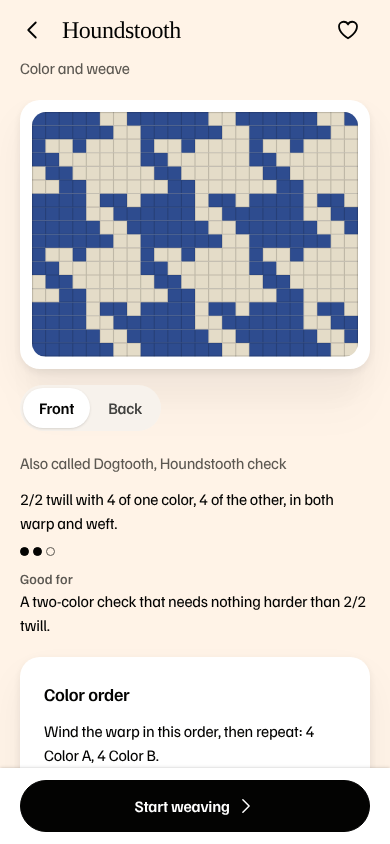
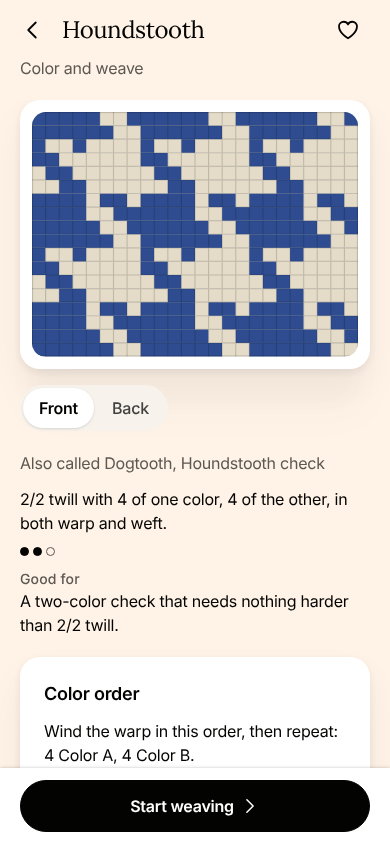
Switch the app to Lora and Inter
Imports only the five weights used, so the build ships 5 font files
instead of every weight. Warp numbers use proportional digits where
cells are tight. Screenshots regenerated.

Claude-Session: https://claude.ai/code/session_01Gtqg4dw1fhTRdDGf4Dddek

diff --git a/src/ui/fonts.ts b/src/ui/fonts.ts
@@ -1,38 +1,31 @@
-import {
-  FamiljenGrotesk_400Regular,
-  FamiljenGrotesk_500Medium,
-  FamiljenGrotesk_600SemiBold,
-  FamiljenGrotesk_700Bold,
-} from '@expo-google-fonts/familjen-grotesk';
+// Per-weight entry points: the package index would pull every weight and italic into the build.
+import { Inter_400Regular } from '@expo-google-fonts/inter/400Regular';
+import { Inter_500Medium } from '@expo-google-fonts/inter/500Medium';
+import { Inter_600SemiBold } from '@expo-google-fonts/inter/600SemiBold';
+import { Inter_700Bold } from '@expo-google-fonts/inter/700Bold';
+import { Lora_400Regular } from '@expo-google-fonts/lora/400Regular';
 import { Platform } from 'react-native';
 
-/*
- * Spec (docs/design.md): Inter 400/500/600/700 for everything, Lora 400 for headings of 24 px and up.
- * The Lora and Inter packages are not installed yet, so the sans faces are still the bundled
- * Familjen Grotesk and the serif is the system serif. Swapping in the packages only touches this file:
- * import Inter_400Regular … Inter_700Bold and Lora_400Regular, point `fontFamilies` at them, set
- * `serifFamily` to 'Lora_400Regular' and add it to `fontMap`.
- */
-
-/** Family names registered with expo-font: one per weight. */
+/** Inter family names registered with expo-font: one per weight. */
 export const fontFamilies = {
-  regular: 'FamiljenGrotesk_400Regular',
-  medium: 'FamiljenGrotesk_500Medium',
-  semibold: 'FamiljenGrotesk_600SemiBold',
-  bold: 'FamiljenGrotesk_700Bold',
+  regular: 'Inter_400Regular',
+  medium: 'Inter_500Medium',
+  semibold: 'Inter_600SemiBold',
+  bold: 'Inter_700Bold',
 } as const;
 
-/** System serif used before (or instead of) the bundled one. */
+/** Lora 400: headings of 24 px and up only. */
+export const serifFamily = 'Lora_400Regular';
+
+/** System serif, used if the bundled fonts fail to load. */
 export const systemSerif: string =
   Platform.select({ ios: 'Georgia', android: 'serif', web: 'Georgia, "Times New Roman", serif' }) ?? 'serif';
 
-/** The serif family once fonts are loaded. Null while no serif is bundled: the system serif is used. */
-export const serifFamily: string | null = null;
-
 /** Map handed to `useFonts`. The TTFs are bundled, so nothing is fetched from a font host. */
 export const fontMap = {
-  [fontFamilies.regular]: FamiljenGrotesk_400Regular,
-  [fontFamilies.medium]: FamiljenGrotesk_500Medium,
-  [fontFamilies.semibold]: FamiljenGrotesk_600SemiBold,
-  [fontFamilies.bold]: FamiljenGrotesk_700Bold,
+  [fontFamilies.regular]: Inter_400Regular,
+  [fontFamilies.medium]: Inter_500Medium,
+  [fontFamilies.semibold]: Inter_600SemiBold,
+  [fontFamilies.bold]: Inter_700Bold,
+  [serifFamily]: Lora_400Regular,
 };

diff --git a/src/weave/strips.tsx b/src/weave/strips.tsx
@@ -234,7 +234,8 @@ export function WarpNumbers({ count, cellMin = 10, cell: fixed, testID }: WarpNu
         <Text
           key={n}
           variant="caption"
-          tabular
+          // Proportional digits are narrower ("11" especially) where two-digit numbers sit side by side.
+          tabular={!tight}
           align="center"
           numberOfLines={1}
           maxFontSizeMultiplier={1.2}

diff --git a/src/ui/theme.ts b/src/ui/theme.ts
@@ -184,7 +184,7 @@ const loadedFaces: Record<FontFace, TextStyle> = {
   medium: { fontFamily: fontFamilies.medium },
   semibold: { fontFamily: fontFamilies.semibold },
   bold: { fontFamily: fontFamilies.bold },
-  serif: serifFamily ? { fontFamily: serifFamily } : systemFaces.serif,
+  serif: { fontFamily: serifFamily },
 };
 
 export type ShadowName = 'float' | 'lift' | 'bar' | 'segment';
